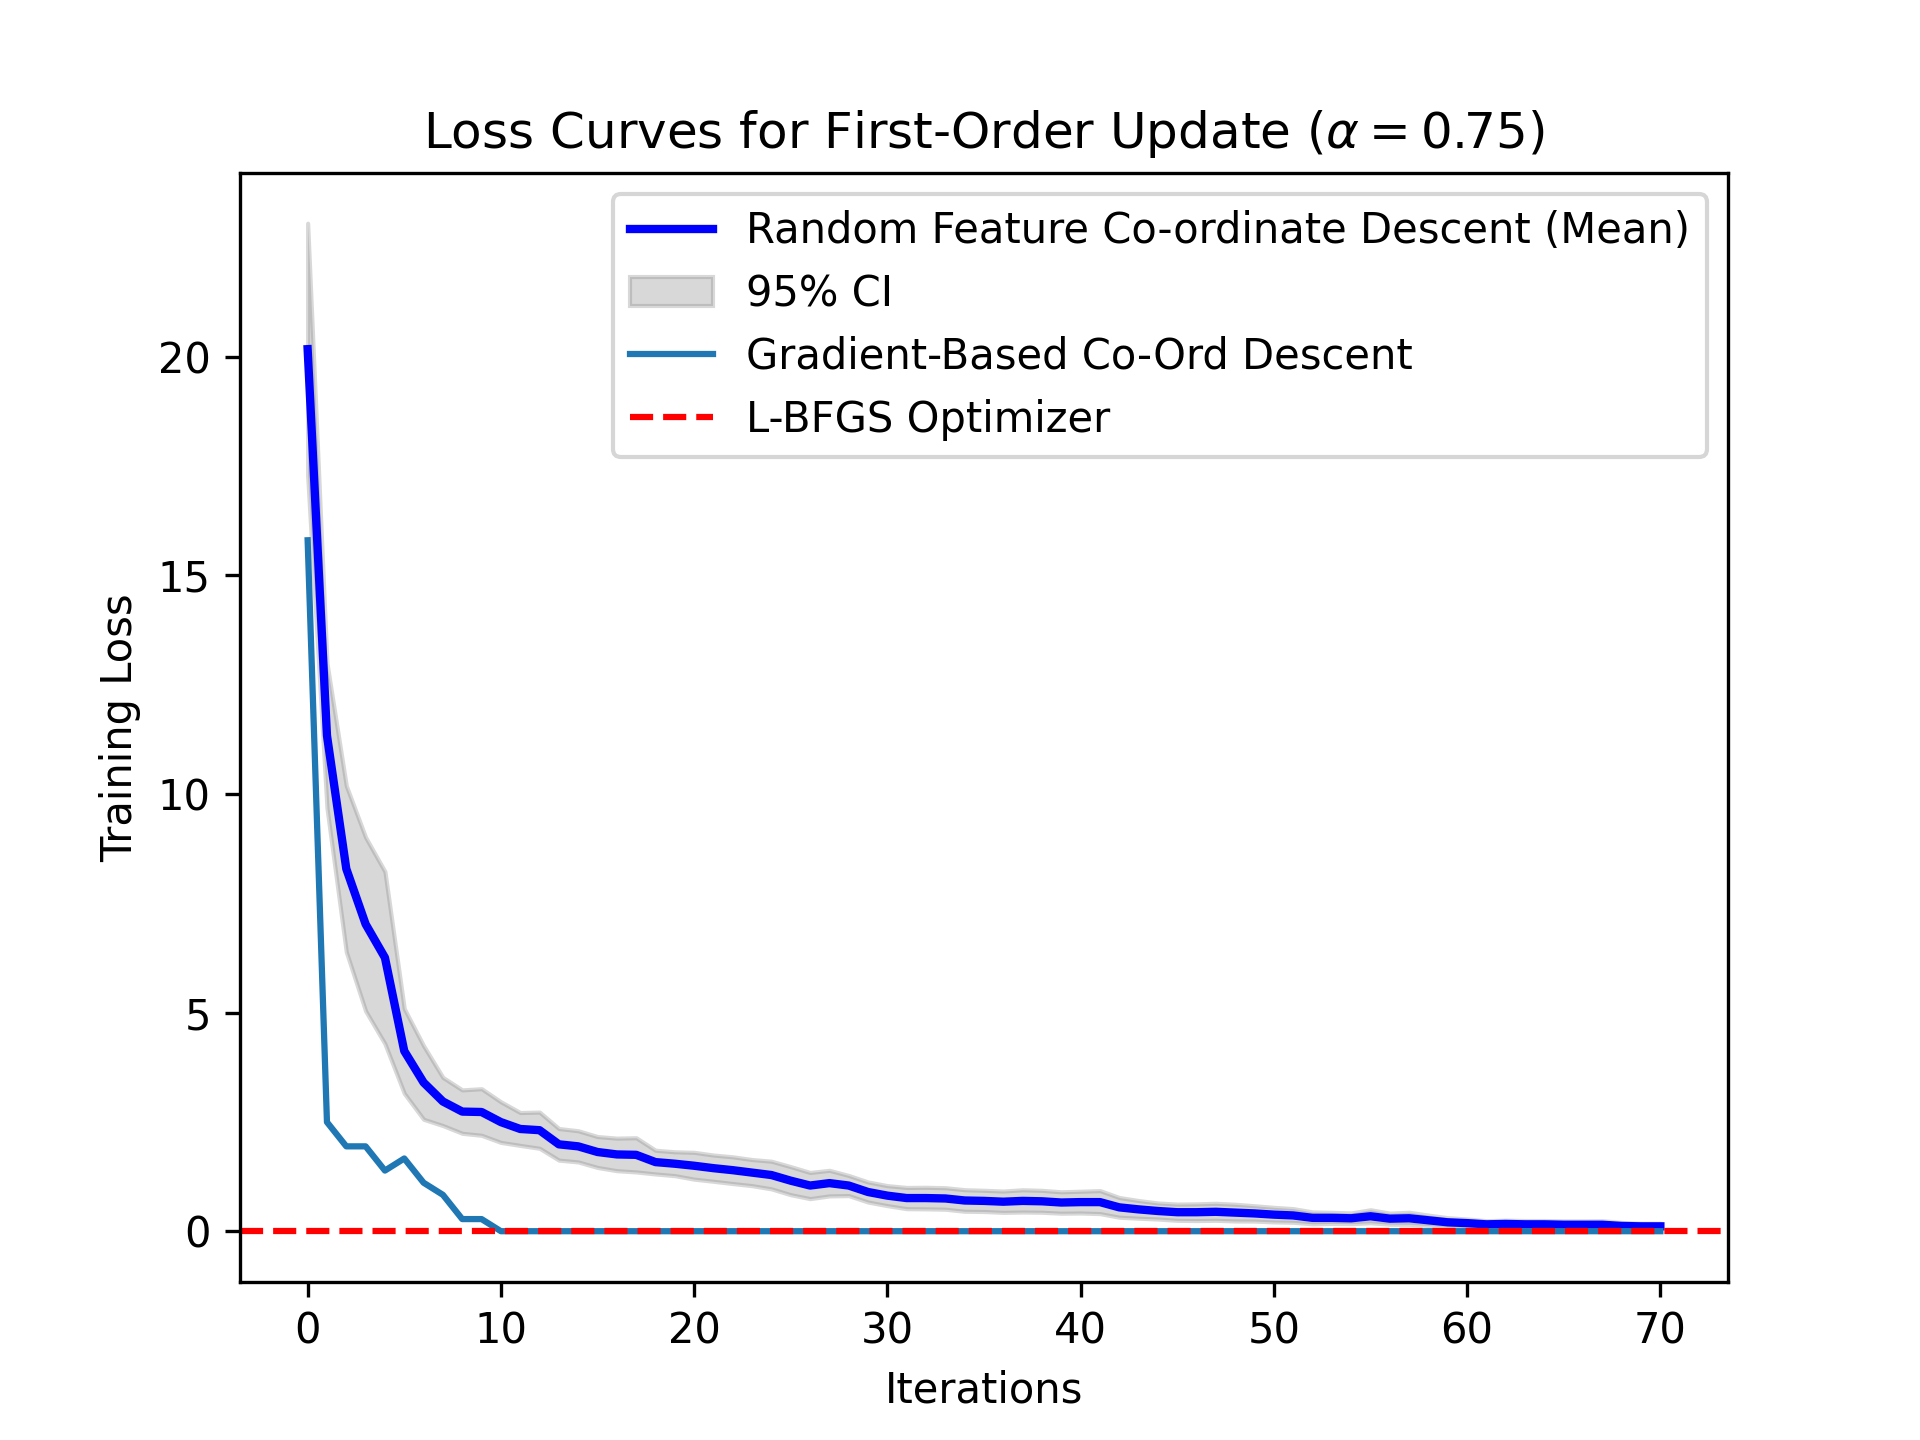
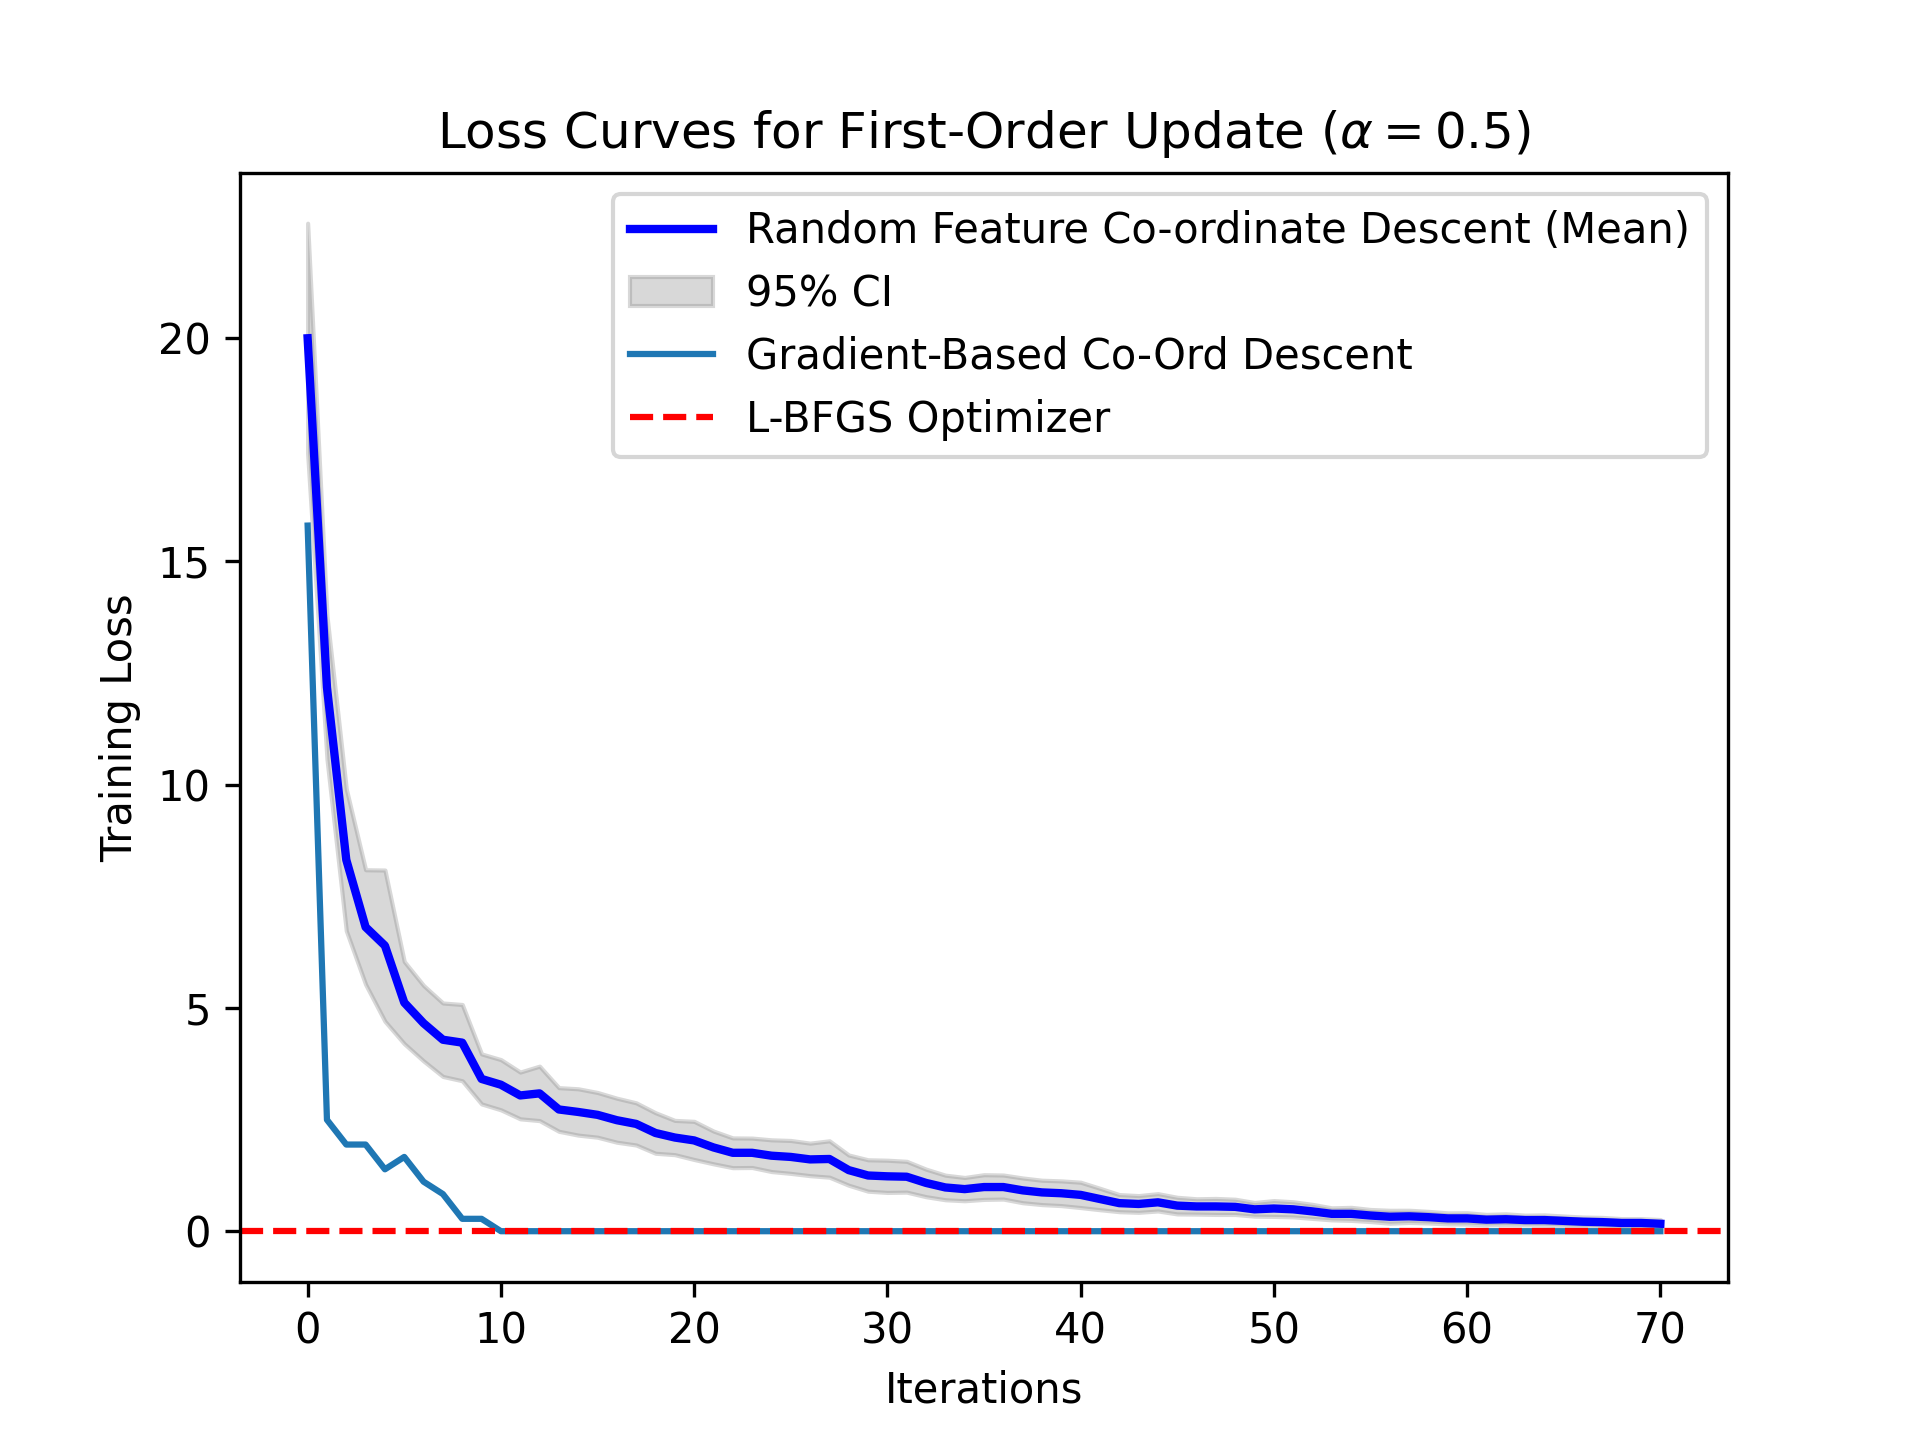
Cleanup code for hessian

diff --git a/project2/model.py b/project2/model.py
@@ -13,10 +13,6 @@ def calculate_stable_hessian(X, y_hat, eps=1e-10):
     
     # Ensure weights are positive and not too close to zero
     weights = np.maximum(weights, eps)
-    
-    # Method 1: Using np.einsum for better numerical precision
-    hessian = np.einsum('ji,j,jk->ik', X, weights, X)
-    
     # Alternative Method 2: Using sparse diagonal matrix if data is large
     
     W = sparse.diags(weights, format='csr')

diff --git a/project2/main.py b/project2/main.py
@@ -21,7 +21,6 @@ handler.setFormatter(formatter)
 root.addHandler(handler)
 
 test_cases = [
-    ('gd', 0.75),
     ('gd', 0.5),
     ('gd', 0.2),
     ('gd', 0.1),
